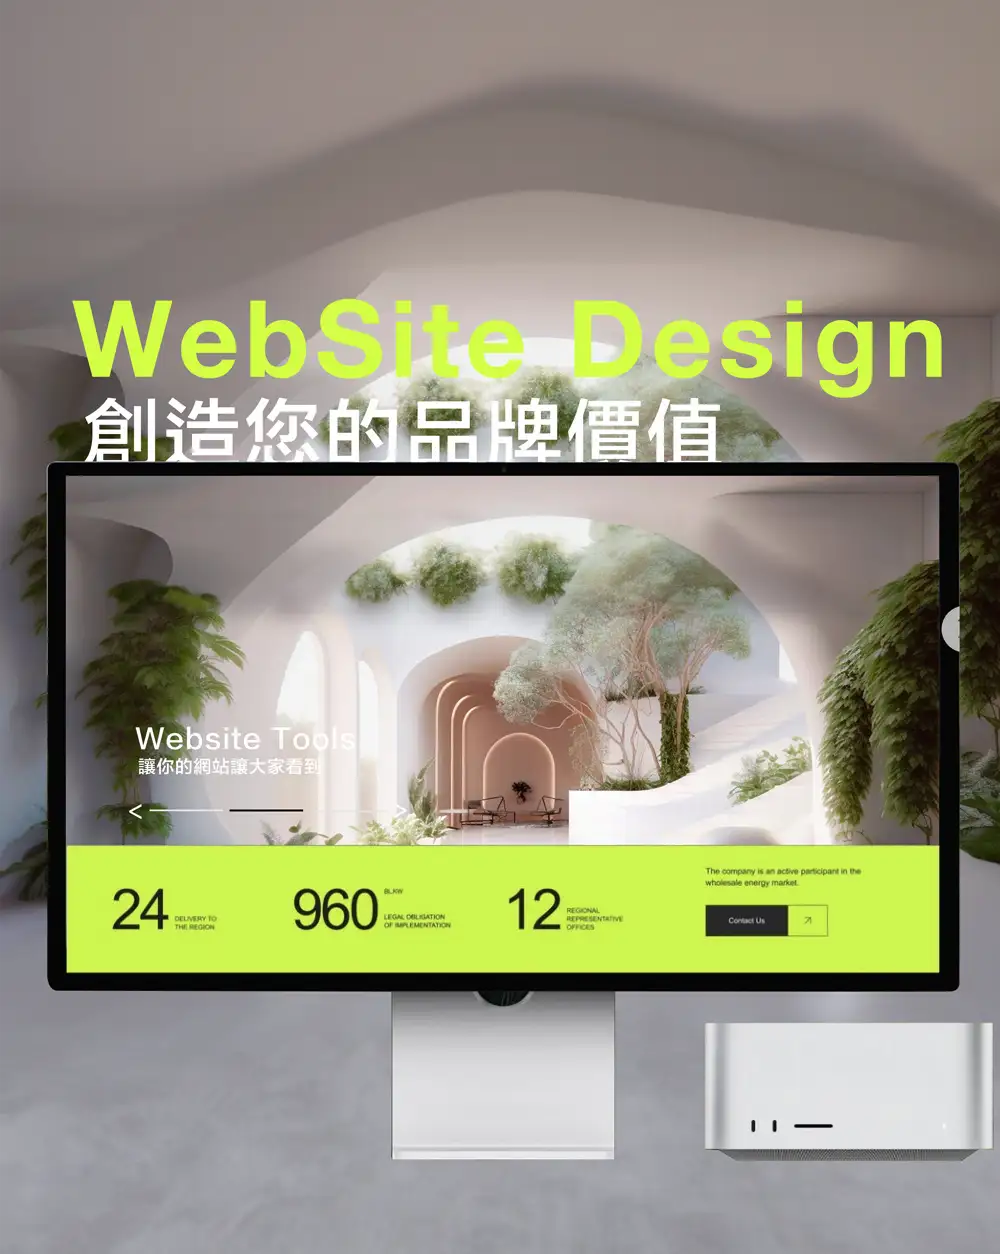
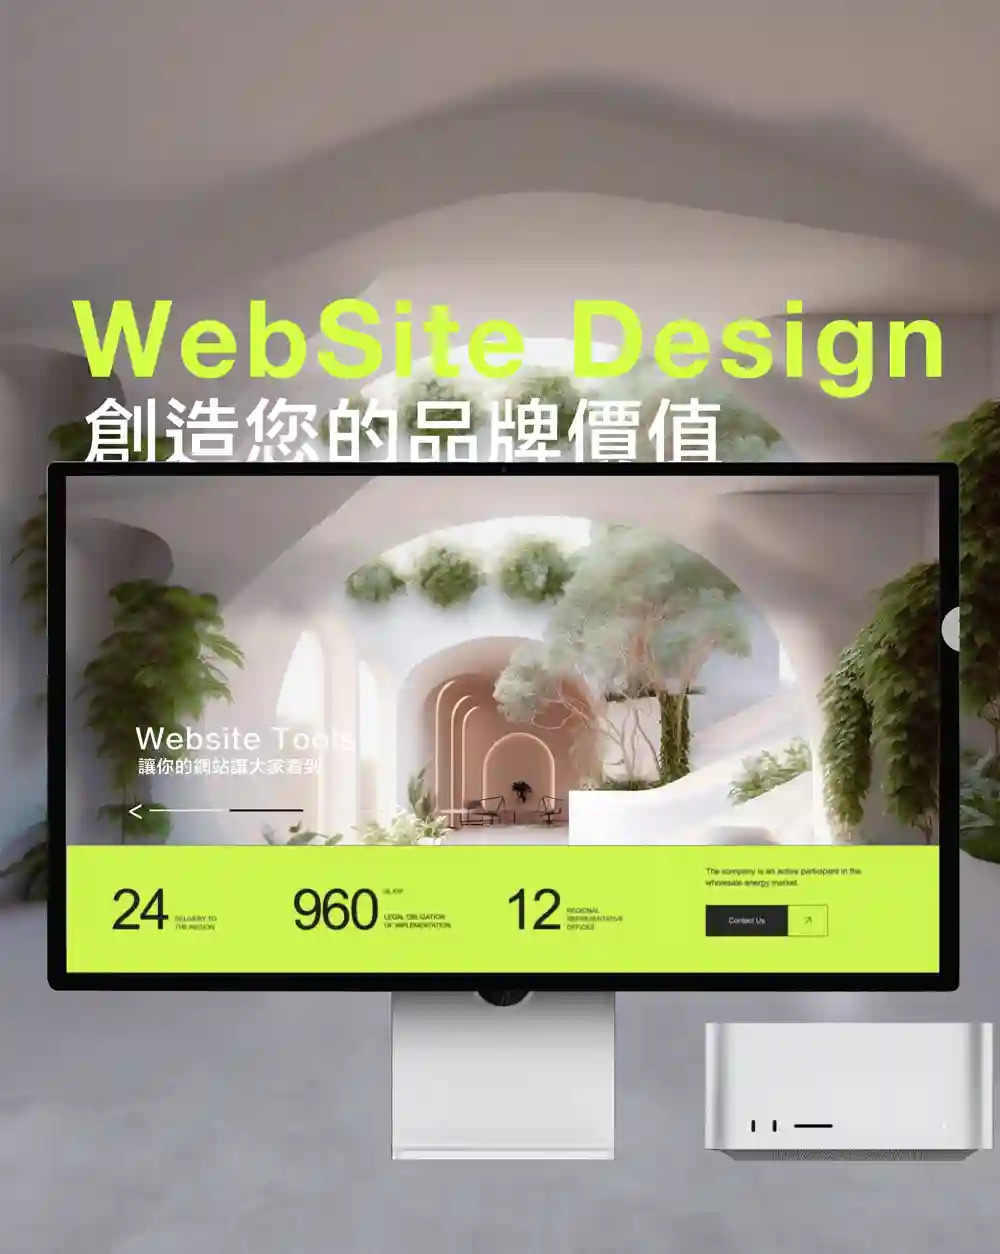
poiuy

diff --git a/pages/Blogs/index.jsx b/pages/Blogs/index.jsx
@@ -37,7 +37,7 @@ export default function Blog() {
             "JEEK 專注於網頁設計和網頁結構優化，致力於為您打造視覺美觀、使用者友好的網站。通過精確的設計和優化策略，我們提升網站的加載速度和使用者體驗，幫助您的品牌在數位世界中脫穎而出。選擇 JEEK，讓您的線上存在更具吸引力和實用性。",
           images: [
             {
-              url: "https://www.jeek-webdesign.com.tw/images/新網站SEO規劃-極客網頁設計.png",
+              url: "https://www.jeek-webdesign.com.tw/images/新網站SEO規劃-極客網頁設計.webp",
               width: 800,
               height: 600,
               alt: "極客網頁設計｜形象官網｜商業攝影｜客製化網站｜套版網站",
@@ -192,7 +192,7 @@ export default function Blog() {
             <Image
               alt=""
               loading="eager"
-              src="/images/fantastic_hare_36410_web_dwsigner_working_First_Person_Perspect_65e77a8a-51f3-45d9-9822-ec78af4b1d7d.png"
+              src="/images/fantastic_hare_36410_web_dwsigner_working_First_Person_Perspect_65e77a8a-51f3-45d9-9822-ec78af4b1d7d.webp"
               width={1200}
               height={780}
               sizes="100%"
@@ -388,7 +388,7 @@ export default function Blog() {
                         placeholder="empty"
                         loading="lazy"
                         alt="網站SEO規劃-極客網頁設計"
-                        src="/images/新網站SEO規劃-極客網頁設計.png"
+                        src="/images/新網站SEO規劃-極客網頁設計.webp"
                         className="w-full group-hover:scale-105 duration-300"
                       ></Image>
                     </figure>
@@ -477,7 +477,7 @@ export default function Blog() {
                         <figure>
                           {" "}
                           <Image
-                            src="/images/blog/如何增加搜尋引擎曝光度和排名-極客網頁設計_網頁結構優化_seo優化.png"
+                            src="/images/blog/如何增加搜尋引擎曝光度和排名-極客網頁設計_網頁結構優化_seo優化.webp"
                             placeholder="empty"
                             className="group-hover:scale-105  overflow-hidden duration-700"
                             loading="lazy"

diff --git a/components/HorizontalScroll/page.jsx b/components/HorizontalScroll/page.jsx
@@ -94,7 +94,7 @@ const HorizontalScroll = () => {
         >
           <section className="w-[40vw] xl:w-[24vw] bg-white mx-1 xl:mx-5 border border-black p-2">
             <Image
-              src="/images/新網站SEO規劃-極客網頁設計.png"
+              src="/images/新網站SEO規劃-極客網頁設計.webp"
               loading="lazy"
               placeholder="empty"
               alt="新網站SEO規劃-極客網頁設計"
@@ -118,7 +118,7 @@ const HorizontalScroll = () => {
         >
           <section className="w-[40vw] xl:w-[22vw] bg-white border xl:mx-5 mx-1 border-black p-2">
             <Image
-              src="/images/如何增加搜尋引擎曝光度和排名-極客網頁設計_網頁結構優化_seo優化.png"
+              src="/images/如何增加搜尋引擎曝光度和排名-極客網頁設計_網頁結構優化_seo優化.webp"
               placeholder="empty"
               alt="如何增加搜尋引擎曝光度和排名-極客網頁設計_網頁結構優化_seo優化"
               loading="lazy"
@@ -144,7 +144,7 @@ const HorizontalScroll = () => {
         >
           <section className="w-[40vw] xl:w-[27vw] bg-white border xl:mx-5 mx-1 border-black p-2">
             <Image
-              src="/images/網頁設計很花錢嗎-極客網頁設計_網頁seo行銷_網站建置.png"
+              src="/images/網頁設計很花錢嗎-極客網頁設計_網頁seo行銷_網站建置.webp"
               loading="lazy"
               alt="網頁設計很花錢嗎-極客網頁設計_網頁seo行銷_網站建置"
               width={600}

diff --git a/pages/Blog-02/index.jsx b/pages/Blog-02/index.jsx
@@ -43,7 +43,7 @@ export default function Blog() {
             "透過精心規劃與適當的資源分配，控制成本並提升品牌形象。掌握基礎網站設計、SEO優化、行動友善設計和外部連結建立，讓您的網站在搜尋引擎中脫穎而出，成為穩定流量來源，促進業務增長。",
           images: [
             {
-              url: "https://www.jeek-webdesign.com.tw/images/網頁設計很花錢嗎-極客網頁設計_網頁seo行銷_網站建置.png",
+              url: "https://www.jeek-webdesign.com.tw/images/網頁設計很花錢嗎-極客網頁設計_網頁seo行銷_網站建置.webp",
               width: 800,
               height: 600,
               alt: "極客網頁設計｜形象官網｜商業攝影｜客製化網站｜套版網站",
@@ -93,7 +93,7 @@ export default function Blog() {
         <div className="article-title hidden md:black relative">
           <div className="txt bg-black-rgba z-[999] absolute bottom-0 h-1/2 left-0 flex justify-center items-center w-[100vw]  border-t border-white/50 backdrop-blur-md"></div>
           <Image
-            src="/images/blog/如何增加搜尋引擎曝光度和排名-極客網頁設計_網頁結構優化_seo優化.png"
+            src="/images/blog/如何增加搜尋引擎曝光度和排名-極客網頁設計_網頁結構優化_seo優化.webp"
             width={1920}
             height={768}
             placeholder="empty"

diff --git a/pages/Blog-03/index.jsx b/pages/Blog-03/index.jsx
@@ -30,7 +30,7 @@ export default function Blog() {
             "透過關鍵字研究、內容優化、行動友善設計和外部連結建置等 SEO 策略，快速提升搜尋引擎排名並增加網站曝光度，讓您的企業在競爭中脫穎而出。",
           images: [
             {
-              url: "https://www.jeek-webdesign.com.tw/images/如何增加搜尋引擎曝光度和排名-極客網頁設計_網頁結構優化_seo優化.png",
+              url: "https://www.jeek-webdesign.com.tw/images/如何增加搜尋引擎曝光度和排名-極客網頁設計_網頁結構優化_seo優化.webp",
               width: 800,
               height: 600,
               alt: "極客網頁設計｜形象官網｜商業攝影｜客製化網站｜套版網站",
@@ -115,7 +115,7 @@ export default function Blog() {
         <div className="article-title hidden md:black relative">
           <div className="txt bg-black-rgba z-[999] absolute bottom-0 h-1/2 left-0 flex justify-center items-center w-[100vw]  border-t border-white/50 backdrop-blur-md"></div>
           <Image
-            src="/images/blog/如何增加搜尋引擎曝光度和排名-極客網頁設計_網頁結構優化_seo優化.png"
+            src="/images/blog/如何增加搜尋引擎曝光度和排名-極客網頁設計_網頁結構優化_seo優化.webp"
             width={1920}
             height={768}
             placeholder="empty"

diff --git a/pages/Blog-01/index.jsx b/pages/Blog-01/index.jsx
@@ -29,7 +29,7 @@ export default function Blog() {
             "了解 SEO 如何提升網站在搜尋引擎中的排名，增加自然流量和品牌信任。從選擇主機、使用 HTTPS 到現代化設計和網站速度優化，全面提升使用者體驗，幫助您的網站在數位世界中脫穎而出。深入探討關鍵字規劃與 SEO 實踐，讓您的網站成為穩定的流量來源，助您實現業務增長！",
           images: [
             {
-              url: "https://www.jeek-webdesign.com.tw/images/新網站SEO規劃-極客網頁設計.png",
+              url: "https://www.jeek-webdesign.com.tw/images/新網站SEO規劃-極客網頁設計.webp",
               width: 800,
               height: 600,
               alt: "極客網頁設計｜形象官網｜商業攝影｜客製化網站｜套版網站",
@@ -165,7 +165,7 @@ export default function Blog() {
               width={800}
               height={500}
               alt="新網站SEO規劃-極客網頁設計"
-              src="/images/blog/新網站SEO規劃-極客網頁設計.png"
+              src="/images/blog/新網站SEO規劃-極客網頁設計.webp"
             ></Image>
           </div>
 

diff --git a/pages/Blog-08/index.jsx b/pages/Blog-08/index.jsx
@@ -32,7 +32,7 @@ export default function Blog() {
             "透過精心規劃與適當的資源分配，控制成本並提升品牌形象。掌握基礎網站設計、SEO優化、行動友善設計和外部連結建立，讓您的網站在搜尋引擎中脫穎而出，成為穩定流量來源，促進業務增長。",
           images: [
             {
-              url: "https://www.jeek-webdesign.com.tw/images/網頁設計很花錢嗎-極客網頁設計_網頁seo行銷_網站建置.png",
+              url: "https://www.jeek-webdesign.com.tw/images/網頁設計很花錢嗎-極客網頁設計_網頁seo行銷_網站建置.webp",
               width: 800,
               height: 600,
               alt: "極客網頁設計｜形象官網｜商業攝影｜客製化網站｜套版網站",

diff --git a/pages/portfolioInner-ultraehp copy/index.jsx b/pages/portfolioInner-ultraehp copy/index.jsx
@@ -31,7 +31,7 @@ export default function Blog() {
             "JEEK 專注於網頁設計和網頁結構優化，致力於為您打造視覺美觀、使用者友好的網站。通過精確的設計和優化策略，我們提升網站的加載速度和使用者體驗，幫助您的品牌在數位世界中脫穎而出。選擇 JEEK，讓您的線上存在更具吸引力和實用性。",
           images: [
             {
-              url: "https://www.jeek-webdesign.com.tw/images/新網站SEO規劃-極客網頁設計.png",
+              url: "https://www.jeek-webdesign.com.tw/images/新網站SEO規劃-極客網頁設計.webp",
               width: 800,
               height: 600,
               alt: "極客網頁設計｜形象官網｜商業攝影｜客製化網站｜套版網站",

diff --git a/pages/portfolioInner-zensor/index.jsx b/pages/portfolioInner-zensor/index.jsx
@@ -32,7 +32,7 @@ export default function Blog() {
             "JEEK 專注於網頁設計和網頁結構優化，致力於為您打造視覺美觀、使用者友好的網站。通過精確的設計和優化策略，我們提升網站的加載速度和使用者體驗，幫助您的品牌在數位世界中脫穎而出。選擇 JEEK，讓您的線上存在更具吸引力和實用性。",
           images: [
             {
-              url: "https://www.jeek-webdesign.com.tw/images/新網站SEO規劃-極客網頁設計.png",
+              url: "https://www.jeek-webdesign.com.tw/images/新網站SEO規劃-極客網頁設計.webp",
               width: 800,
               height: 600,
               alt: "極客網頁設計｜形象官網｜商業攝影｜客製化網站｜套版網站",

diff --git a/pages/Service/index.jsx b/pages/Service/index.jsx
@@ -511,7 +511,7 @@ export default function Blog() {
                         <img
                           loading="lazy"
                           alt="Portrait of the team"
-                          src="/images/製作屬於你的專屬企業網站-極客網頁設計_網頁行銷_網頁建置設計.png"
+                          src="/images/製作屬於你的專屬企業網站-極客網頁設計_網頁行銷_網頁建置設計.webp"
                           sizes="(max-width: 479px) 84vw, (max-width: 1919px) 90vw, 1550px"
                           className="cover-image"
                           style={{

diff --git a/components/SwiperHero/index.jsx b/components/SwiperHero/index.jsx
@@ -3,10 +3,10 @@ import { motion, useMotionValue } from "framer-motion";
 
 const video = [""];
 const imgs = [
-  "/images/網頁結構優化01_UI設計_banner設計-極客網頁設計_seo優化.png",
+  "/images/網頁結構優化01_UI設計_banner設計-極客網頁設計_seo優化.webp",
   "/images/攝影-商業攝影.png",
   "/images/網頁設計_商品攝影_網頁Seo優化-極客網頁設計.png",
-  "/images/網頁設計_UI設計_banner設計-極客網頁設計_seo優化.png",
+  "/images/網頁設計_UI設計_banner設計-極客網頁設計_seo優化.webp",
 ];
 
 const ONE_SECOND = 1000;

diff --git a/pages/about/index.jsx b/pages/about/index.jsx
@@ -669,7 +669,7 @@ export default function Blog() {
                 </div>
                 <div className="img mt-4 xl:mt-0 xl:my-0  mb-0 xl:mb-[30px] w-full md:w-[40%] overflow-hidden">
                   <Image
-                    src="/images/自由工作接案者-極客網頁設計.png"
+                    src="/images/自由工作接案者-極客網頁設計.webp"
                     alt="自由接案工作者-freeLancer-極客網頁設計"
                     placeholder="empty"
                     data-aos="zoom-in-up"
